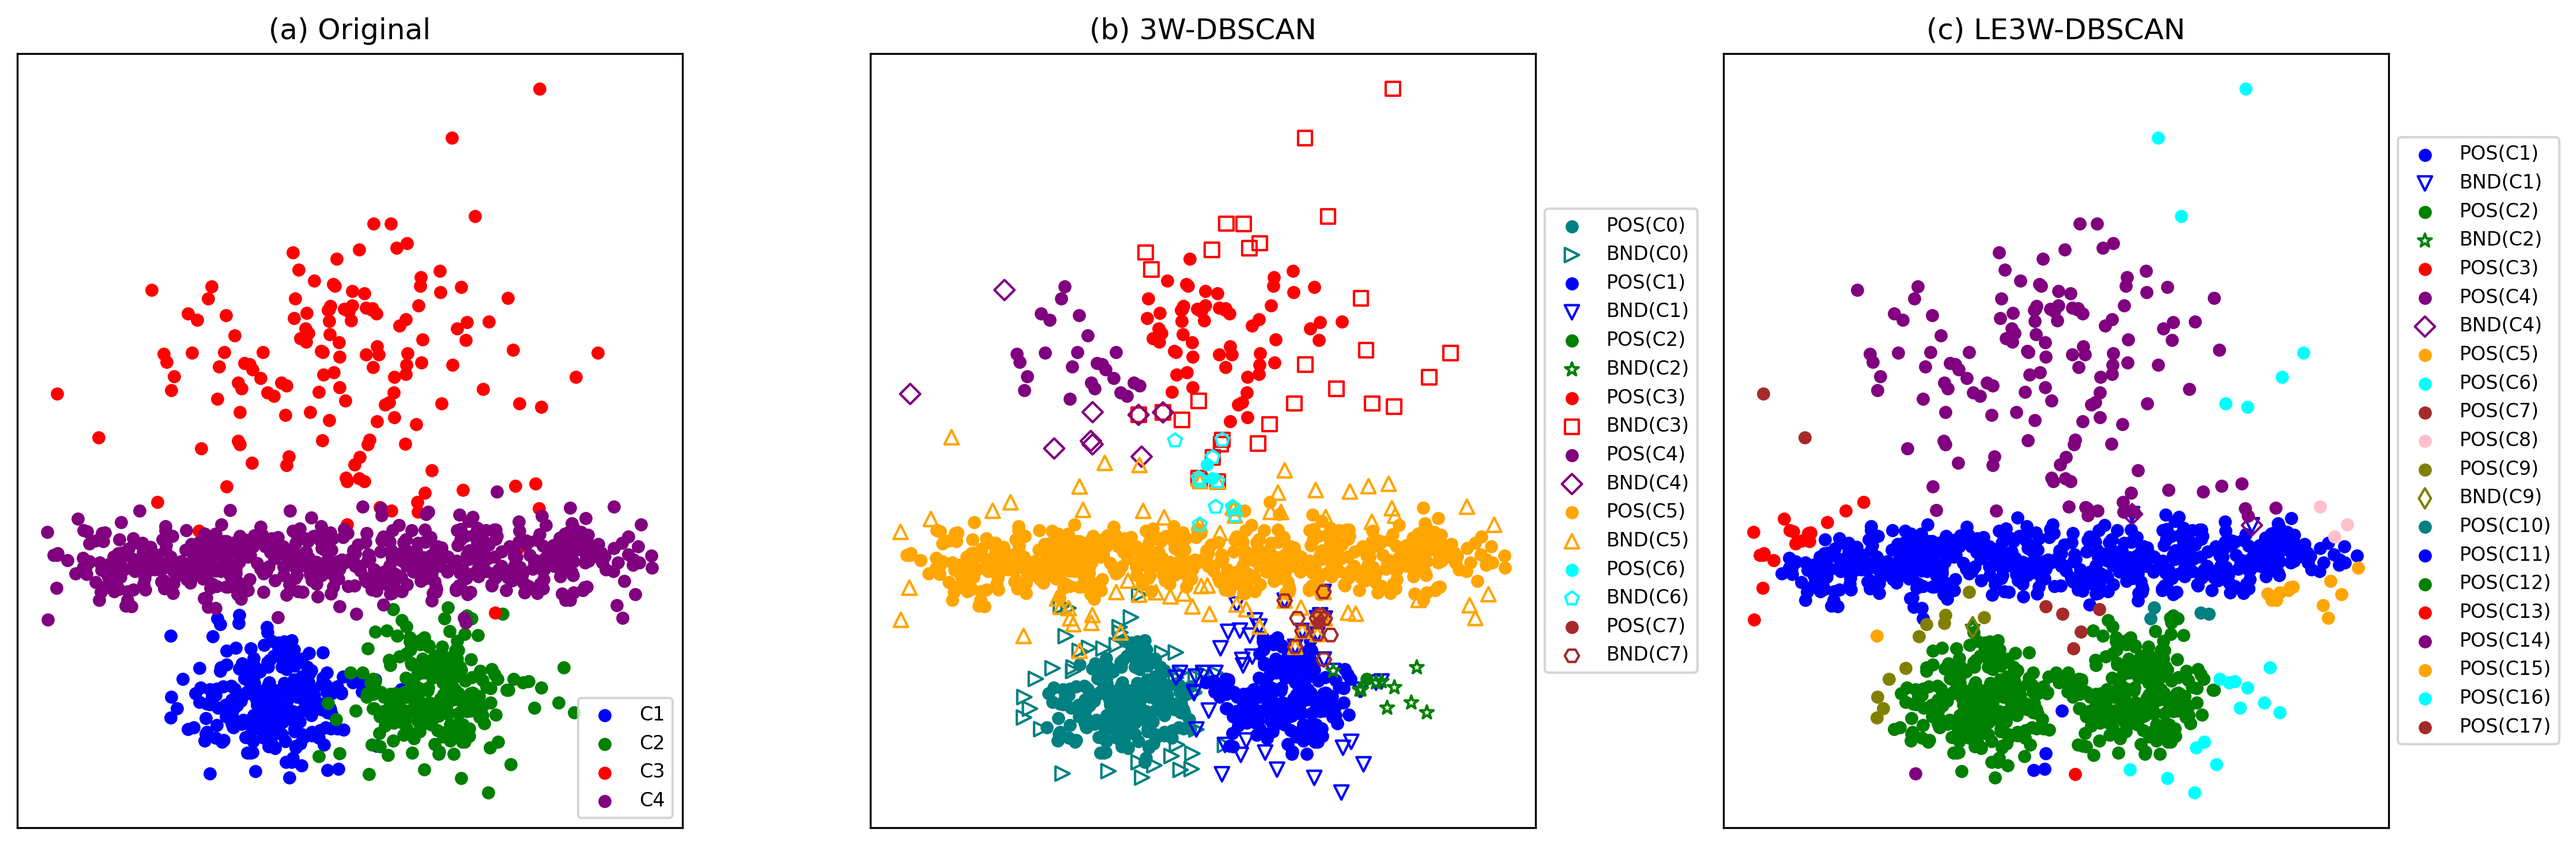
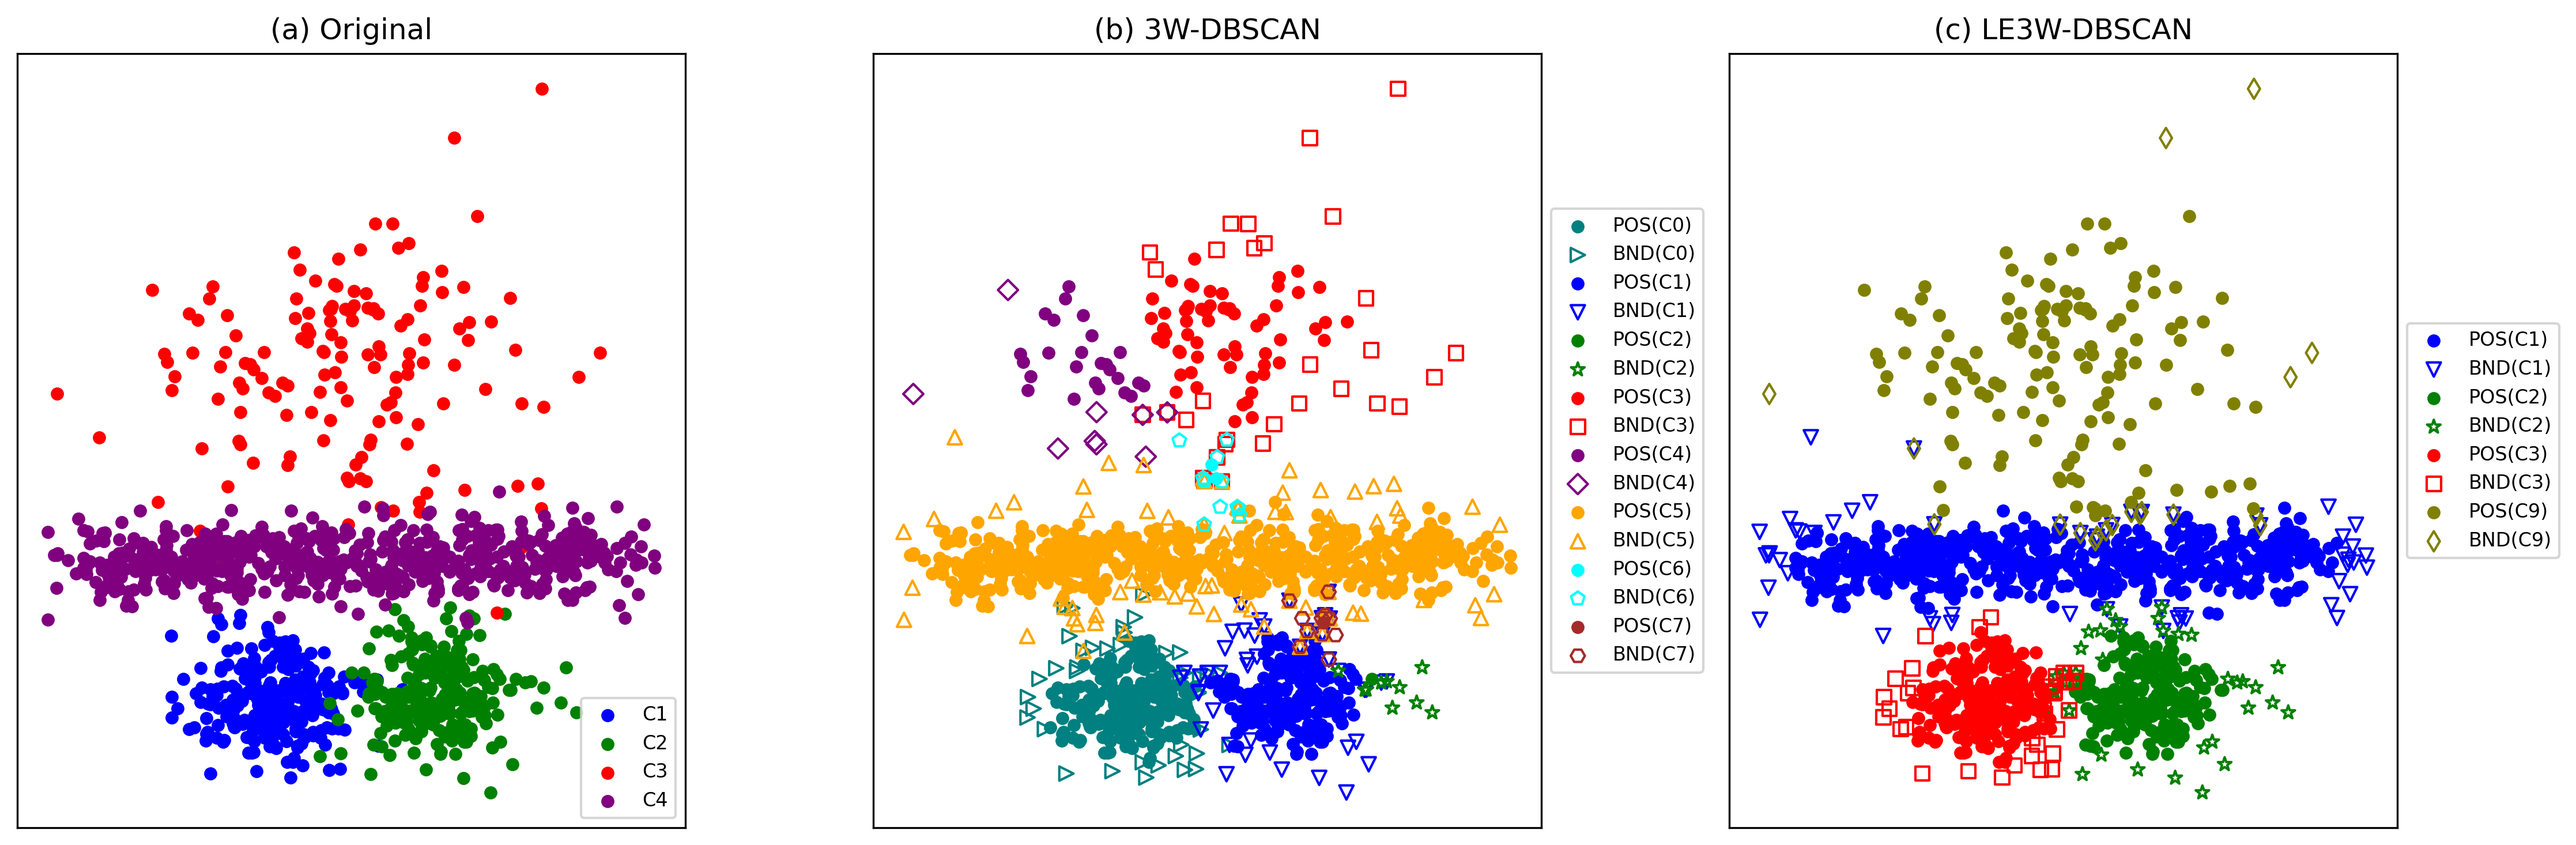
update tham so

diff --git a/grid_search_5ds.py b/grid_search_5ds.py
@@ -1,0 +1,89 @@
+import numpy as np, sys, io, warnings, time
+sys.stdout = io.TextIOWrapper(sys.stdout.buffer, encoding='utf-8')
+warnings.filterwarnings('ignore')
+sys.path.insert(0, 'd:/STUDY/KPDL/Data-Mining-3W-DBSCAN')
+
+from models.le3w_dbscan import LE3W_DBSCAN
+from utils.dataloader import load_dataset
+from utils.metrics import calculate_accuracy
+from sklearn.preprocessing import MinMaxScaler
+from sklearn.metrics import normalized_mutual_info_score, adjusted_rand_score
+
+def get_upper_labels(model, n):
+    labels = np.full(n, -1)
+    for c in model.POS:
+        for i in model.POS[c]: labels[i] = c
+        for i in model.BND[c]:
+            if labels[i] == -1: labels[i] = c
+    return labels
+
+def search(ds_name, n_true, mp_range, k_range):
+    X, y = load_dataset(f'data/{ds_name}.csv')
+    X = MinMaxScaler().fit_transform(X)
+    n = X.shape[0]
+    best_exact, best_any, top5 = None, None, []
+    for minpts in range(mp_range[0], mp_range[1] + 1):
+        for k in range(k_range[0], min(k_range[1], n - 1) + 1):
+            if k <= minpts:
+                continue
+            try:
+                model = LE3W_DBSCAN(min_samples=minpts, k_neighbors=k).fit(X)
+            except Exception:
+                continue
+            nf = len(model.POS)
+            if nf == 0:
+                continue
+            pred = get_upper_labels(model, n)
+            mask = pred != -1
+            if mask.sum() < 10:
+                continue
+            nmi = normalized_mutual_info_score(y[mask], pred[mask])
+            ari = adjusted_rand_score(y[mask], pred[mask])
+            acc = float(calculate_accuracy(y[mask], pred[mask]))
+            row = dict(minPts=minpts, k=k, n_found=nf,
+                       NMI=round(nmi, 4), ARI=round(ari, 4), ACC=round(acc, 4))
+            if nf == n_true:
+                top5.append(row)
+                if best_exact is None or nmi > best_exact['NMI']:
+                    best_exact = row
+            if best_any is None or nmi > best_any['NMI']:
+                best_any = row
+    return best_exact, best_any, sorted(top5, key=lambda x: -x['NMI'])[:5]
+
+DATASETS = {
+    '3L':        (3,  (2, 20), (5, 50)),
+    '4C':        (4,  (2, 20), (5, 50)),
+    'Compound':  (6,  (2, 15), (5, 40)),
+    'S1':        (15, (5, 25), (10, 60)),
+    'Pathbased': (3,  (2, 20), (5, 50)),
+}
+
+print('Bat dau grid search cho 5 datasets...\n')
+for ds, (n_true, mp, kr) in DATASETS.items():
+    t0 = time.time()
+    print(f'Dang xu ly {ds} (n_true={n_true})...', flush=True)
+    be, ba, top5 = search(ds, n_true, mp, kr)
+    elapsed = round(time.time() - t0, 1)
+
+    print(f'\n{"="*60}')
+    print(f'Dataset: {ds}  (n_true={n_true})  [{elapsed}s]')
+    print(f'{"="*60}')
+
+    if be:
+        print(f'  DUNG SO CUM : minPts={be["minPts"]}, k={be["k"]} '
+              f'-> n_found={be["n_found"]}, NMI={be["NMI"]}, ARI={be["ARI"]}, ACC={be["ACC"]}')
+    else:
+        print(f'  DUNG SO CUM : KHONG TIM DUOC')
+
+    if ba and (be is None or ba['NMI'] > be['NMI'] + 0.01):
+        print(f'  TOT NHAT    : minPts={ba["minPts"]}, k={ba["k"]} '
+              f'-> n_found={ba["n_found"]}, NMI={ba["NMI"]}, ARI={ba["ARI"]}, ACC={ba["ACC"]}')
+
+    if top5:
+        print(f'  Top 5 voi dung {n_true} cum (theo NMI):')
+        for r in top5:
+            print(f'    minPts={r["minPts"]}, k={r["k"]} '
+                  f'-> NMI={r["NMI"]}, ARI={r["ARI"]}, ACC={r["ACC"]}')
+    print()
+
+print('HOAN THANH!')

diff --git a/main_up.py b/main_up.py
@@ -17,18 +17,19 @@ def main():
     data_dir = "data"
     os.makedirs("results/LE3W", exist_ok=True)
     
-    # 4 Dataset được dùng trong paper cho Figure 8, 9, 10, 11
     target_datasets = {
-        # '3L': {'eps_3w': 0.19, 'minPts': 5, 'eta': 0.20, 'k_le': 15},
-        # '4C': {'eps_3w': 0.07, 'minPts': 5, 'eta': 0.20, 'k_le': 20},
-        # 'S1': {'eps_3w': 0.05, 'minPts': 10, 'eta': 0.15, 'k_le': 30},
+        # --- Dataset bài báo LE3W-DBSCAN (Shen 2023) ---
         'Aggregation': {'eps_3w': 0.09, 'minPts_3w': 5,  'eta': 0.20, 'minPts_le': 10, 'k_le': 20},
-        'Compound':    {'eps_3w': 0.13, 'minPts_3w': 5,  'eta': 0.20, 'minPts_le': 2,  'k_le': 15},
-        'Pathbased':   {'eps_3w': 0.13, 'minPts_3w': 5,  'eta': 0.20, 'minPts_le': 3,  'k_le': 11},
+        'Compound':    {'eps_3w': 0.13, 'minPts_3w': 5,  'eta': 0.20, 'minPts_le': 5,  'k_le': 15},
+        'Pathbased':   {'eps_3w': 0.13, 'minPts_3w': 5,  'eta': 0.20, 'minPts_le': 5,  'k_le': 12},
         'Flame':       {'eps_3w': 0.15, 'minPts_3w': 4,  'eta': 0.20, 'minPts_le': 18, 'k_le': 24},
         'IRIS':        {'eps_3w': 0.70, 'minPts_3w': 4,  'eta': 0.30, 'minPts_le': 8,  'k_le': 14},
+        'Seeds':       {'eps_3w': 0.70, 'minPts_3w': 4,  'eta': 0.20, 'minPts_le': 20, 'k_le': 25},
+        # --- Dataset bài báo 3W-DBSCAN (Yu 2019) ---
+        '4C':          {'eps_3w': 0.07, 'minPts_3w': 5,  'eta': 0.20, 'minPts_le': 20, 'k_le': 43},
+        # '3L': LE3W khong hieu qua (cum elongated), NMI chi dat 0.545
+        # 'S1': LE3W khong tim duoc dung 15 cum (qua nhieu cum nho)
         # 'Glass': {'eps_3w': 1.30, 'minPts_3w': 4, 'eta': 0.20, 'minPts_le': 4, 'k_le': 10},
-        'Seeds':       {'eps_3w': 0.70, 'minPts_3w': 4,  'eta': 0.20, 'minPts_le': 20, 'k_le': 25}
     }
     table2_data = []
     table4_data = []

diff --git a/models/le3w_dbscan.py b/models/le3w_dbscan.py
@@ -66,10 +66,12 @@ class LE3W_DBSCAN:
                 unclassified.remove(p)
                 labels[p] = -1
                 
-        # Gộp cụm quá nhỏ (< min_samples điểm) vào noise để xử lý ở giai đoạn 3-chiều
+        # Gộp cụm quá nhỏ vào noise — ngưỡng tối thiểu là max(min_samples, 5)
+        # để tránh cụm chỉ 2-3 điểm khi min_samples nhỏ
+        min_cluster_size = max(self.min_samples, 5)
         for cid in set(labels) - {-1}:
             members = np.where(labels == cid)[0]
-            if len(members) < self.min_samples:
+            if len(members) < min_cluster_size:
                 labels[members] = -1
                 core_flags[members] = False
                 if cid in self.local_eps_dict:
